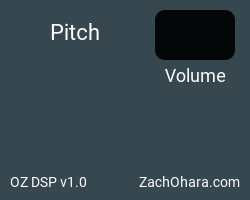
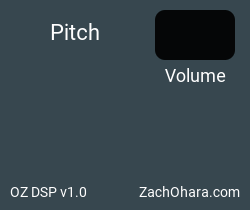
Add new background image

diff --git a/resource.h b/resource.h
@@ -71,7 +71,7 @@ instrument determined by PLUG _IS _INST
 
 // GUI default dimensions
 #define GUI_WIDTH 250
-#define GUI_HEIGHT 200
+#define GUI_HEIGHT 210
 
 // on MSVC, you must define SA_API in the resource editor preprocessor macros as well as the c++ ones
 #if defined(SA_API)
